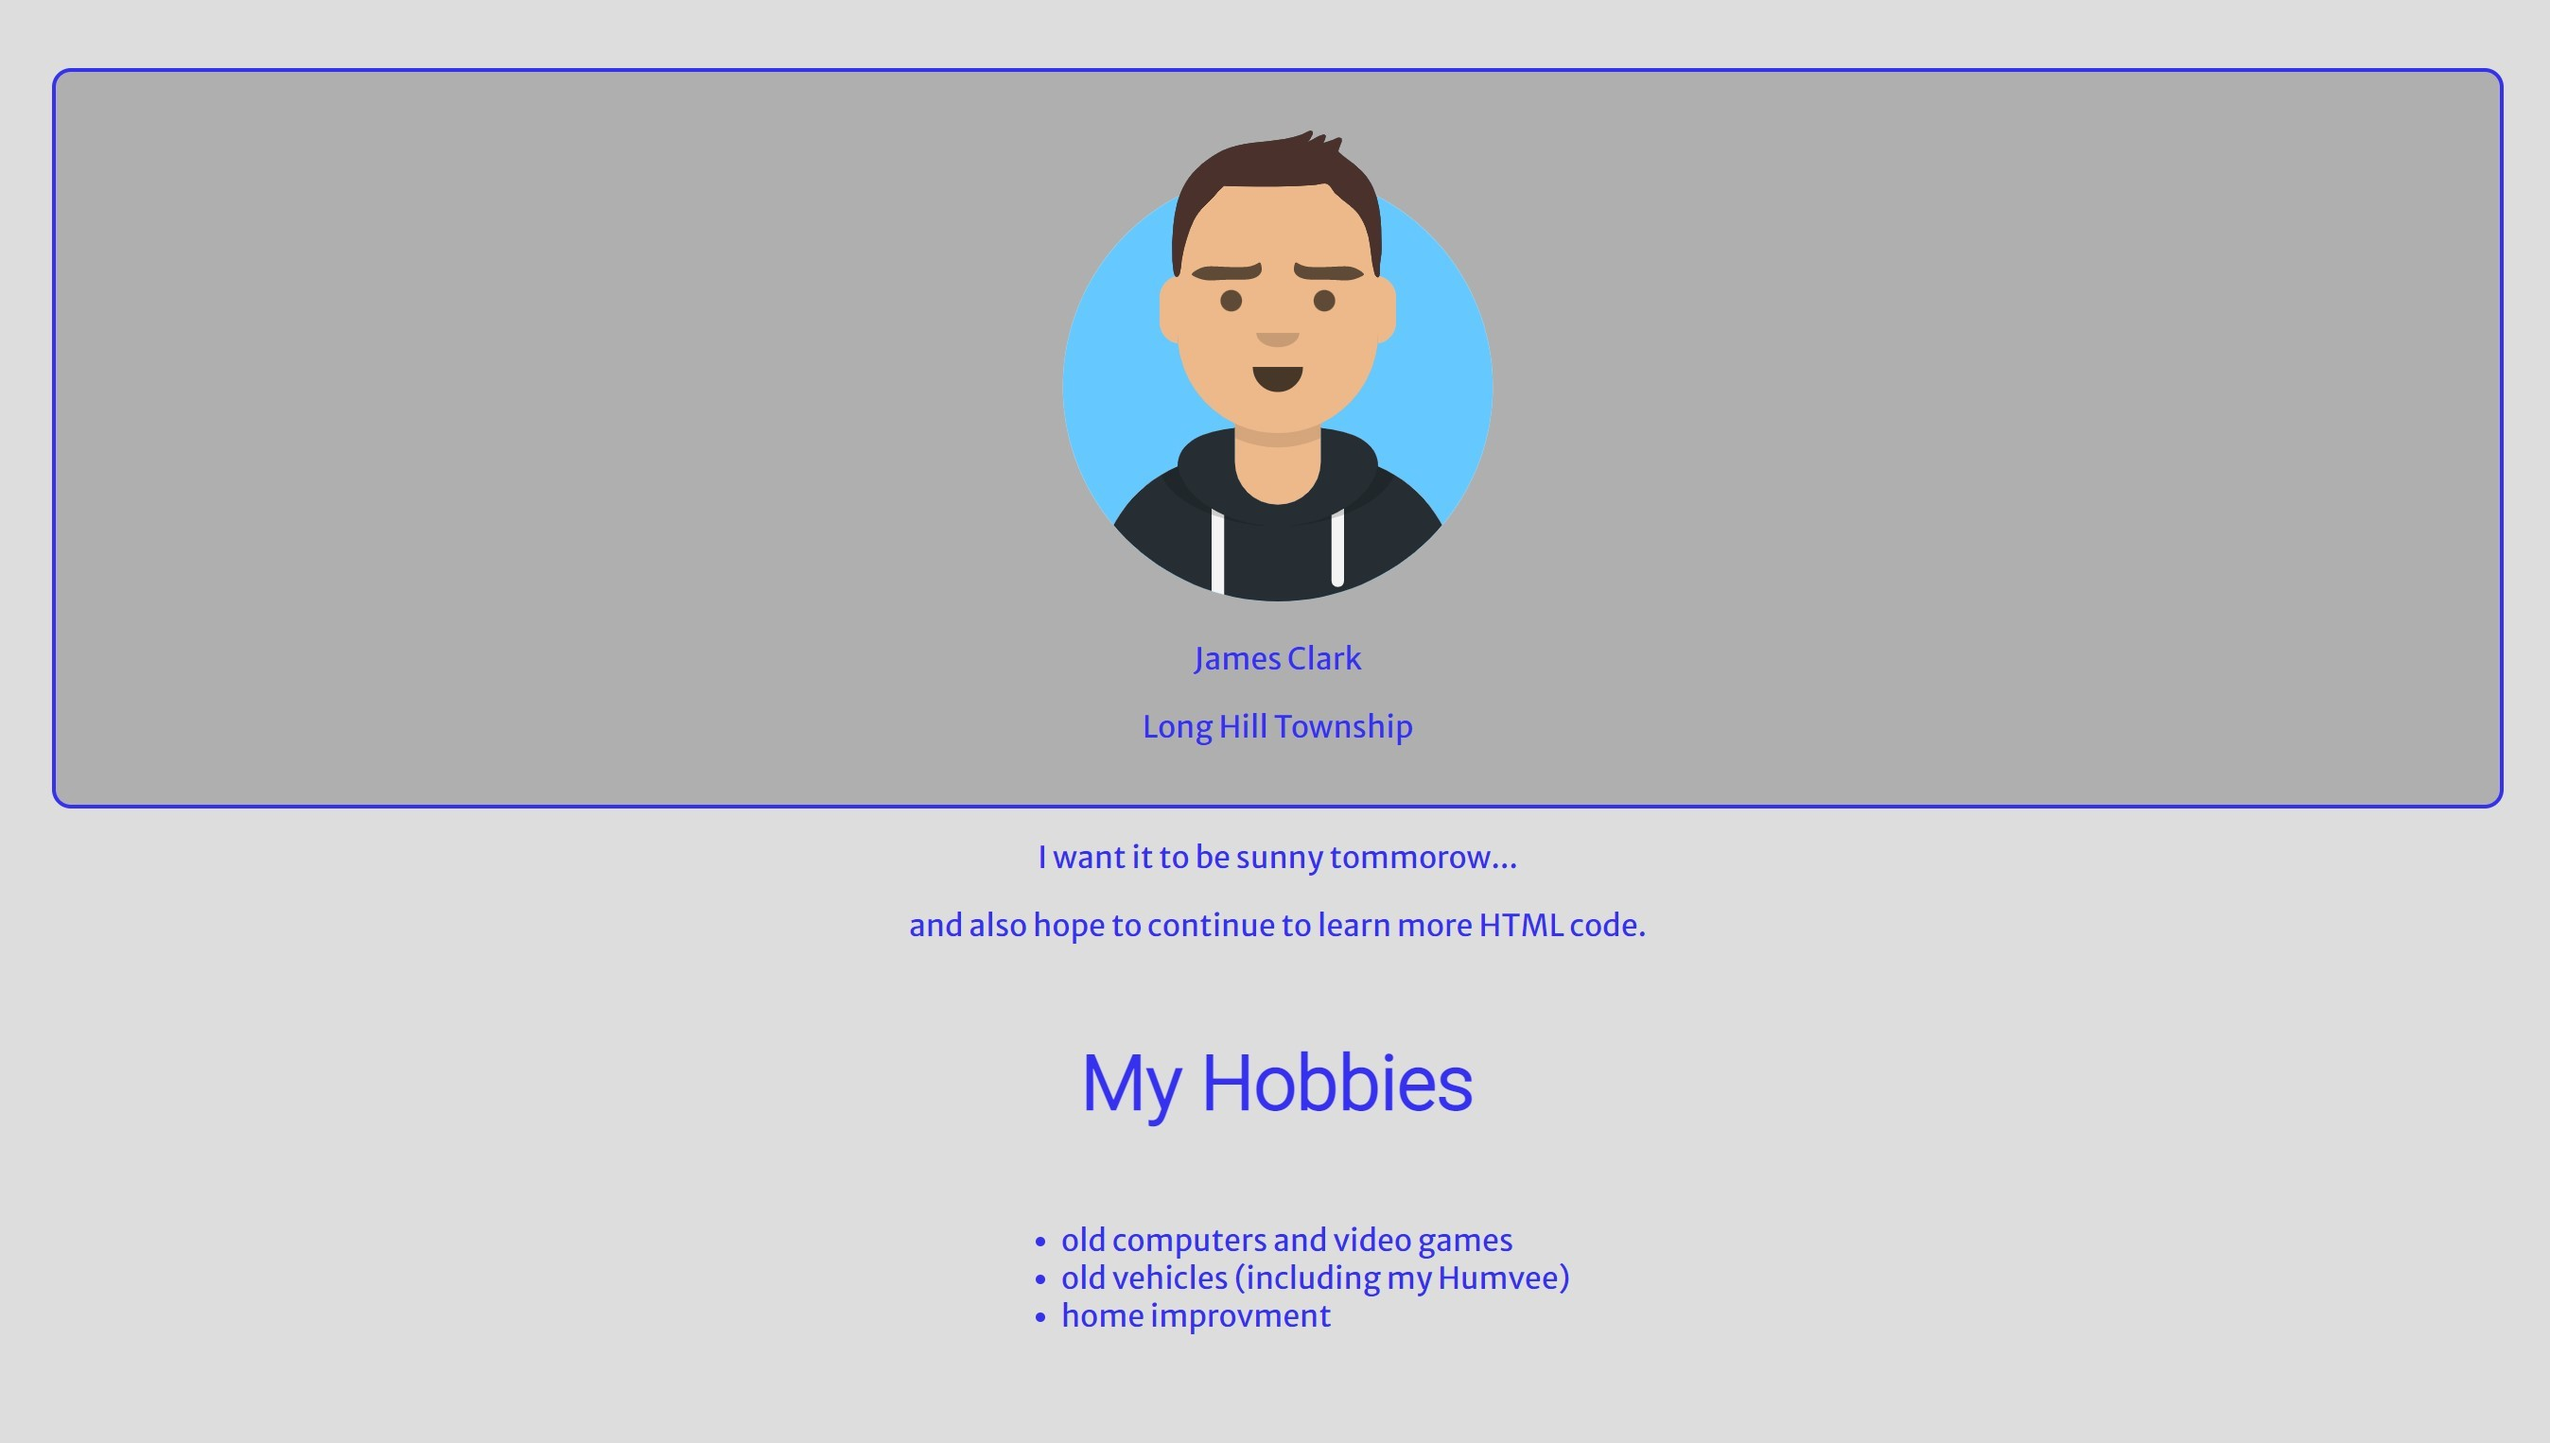
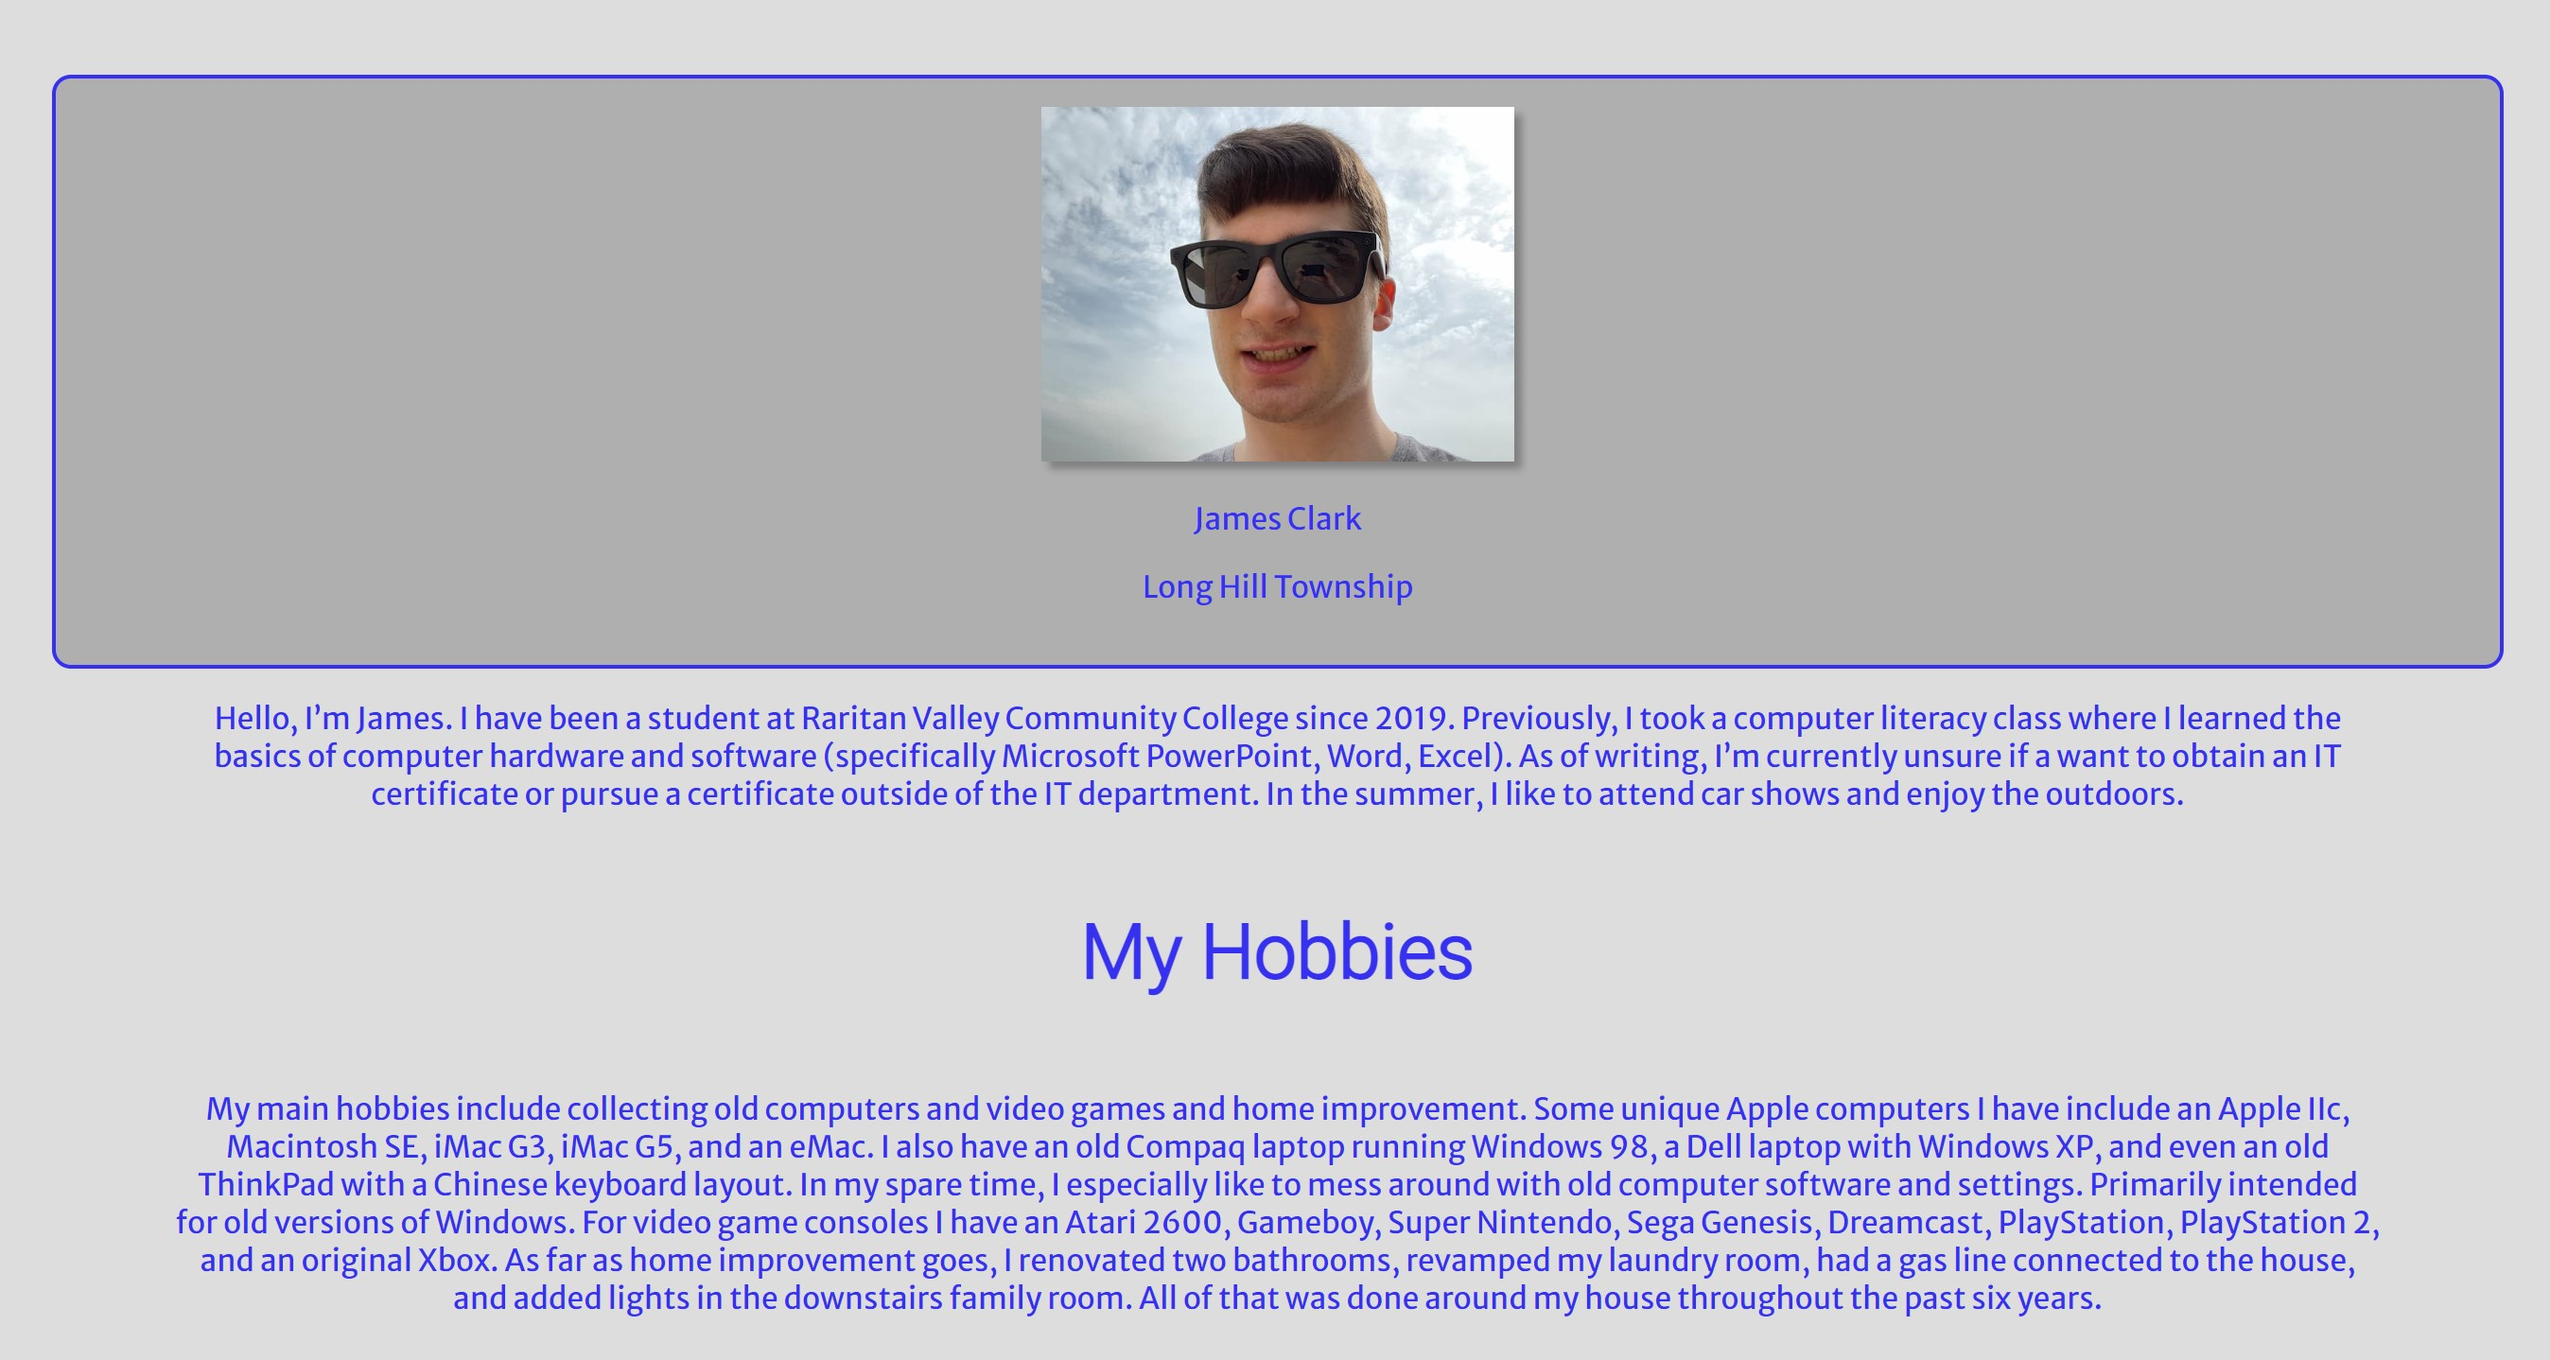
updated hobbies and page with color scheme

Changed region(s): [[0.0, 0.0306, 0.997, 0.9791]]

diff --git a/index.html b/index.html
@@ -86,11 +86,13 @@
 
         <p>My main hobbies include collecting old computers and video games and home improvement. 
             Some unique Apple computers I have include an Apple IIc, Macintosh SE, iMac G3, iMac G5, and an eMac. 
-            I also have an old Compaq laptop running Windows 98, a Dell laptop with Windows XP, and even an old ThinkPad 
-            with a Chinese keyboard layout. For video game consoles I have an Atari 2600, Gameboy, Super Nintendo, 
-            Sega Genesis, Dreamcast, PlayStation, PlayStation 2, and an original Xbox. As far as home improvement goes, 
-            I renovated two bathrooms, revamped my laundry room, had a gas line connected to the house, and added lights 
-            in the downstairs family room. All of that was done around my house throughout the past six years.</p>
+            I also have an old Compaq laptop running Windows 98, a Dell laptop with Windows XP, and even an old 
+            ThinkPad with a Chinese keyboard layout. In my spare time, I especially like to mess around with old 
+            computer software and settings. Primarily intended for old versions of Windows. For video game consoles 
+            I have an Atari 2600, Gameboy, Super Nintendo, Sega Genesis, Dreamcast, PlayStation, PlayStation 2, and 
+            an original Xbox. As far as home improvement goes, I renovated two bathrooms, revamped my laundry room, 
+            had a gas line connected to the house, and added lights in the downstairs family room. All of that was 
+            done around my house throughout the past six years.</p>
         
     </section><br>
 
